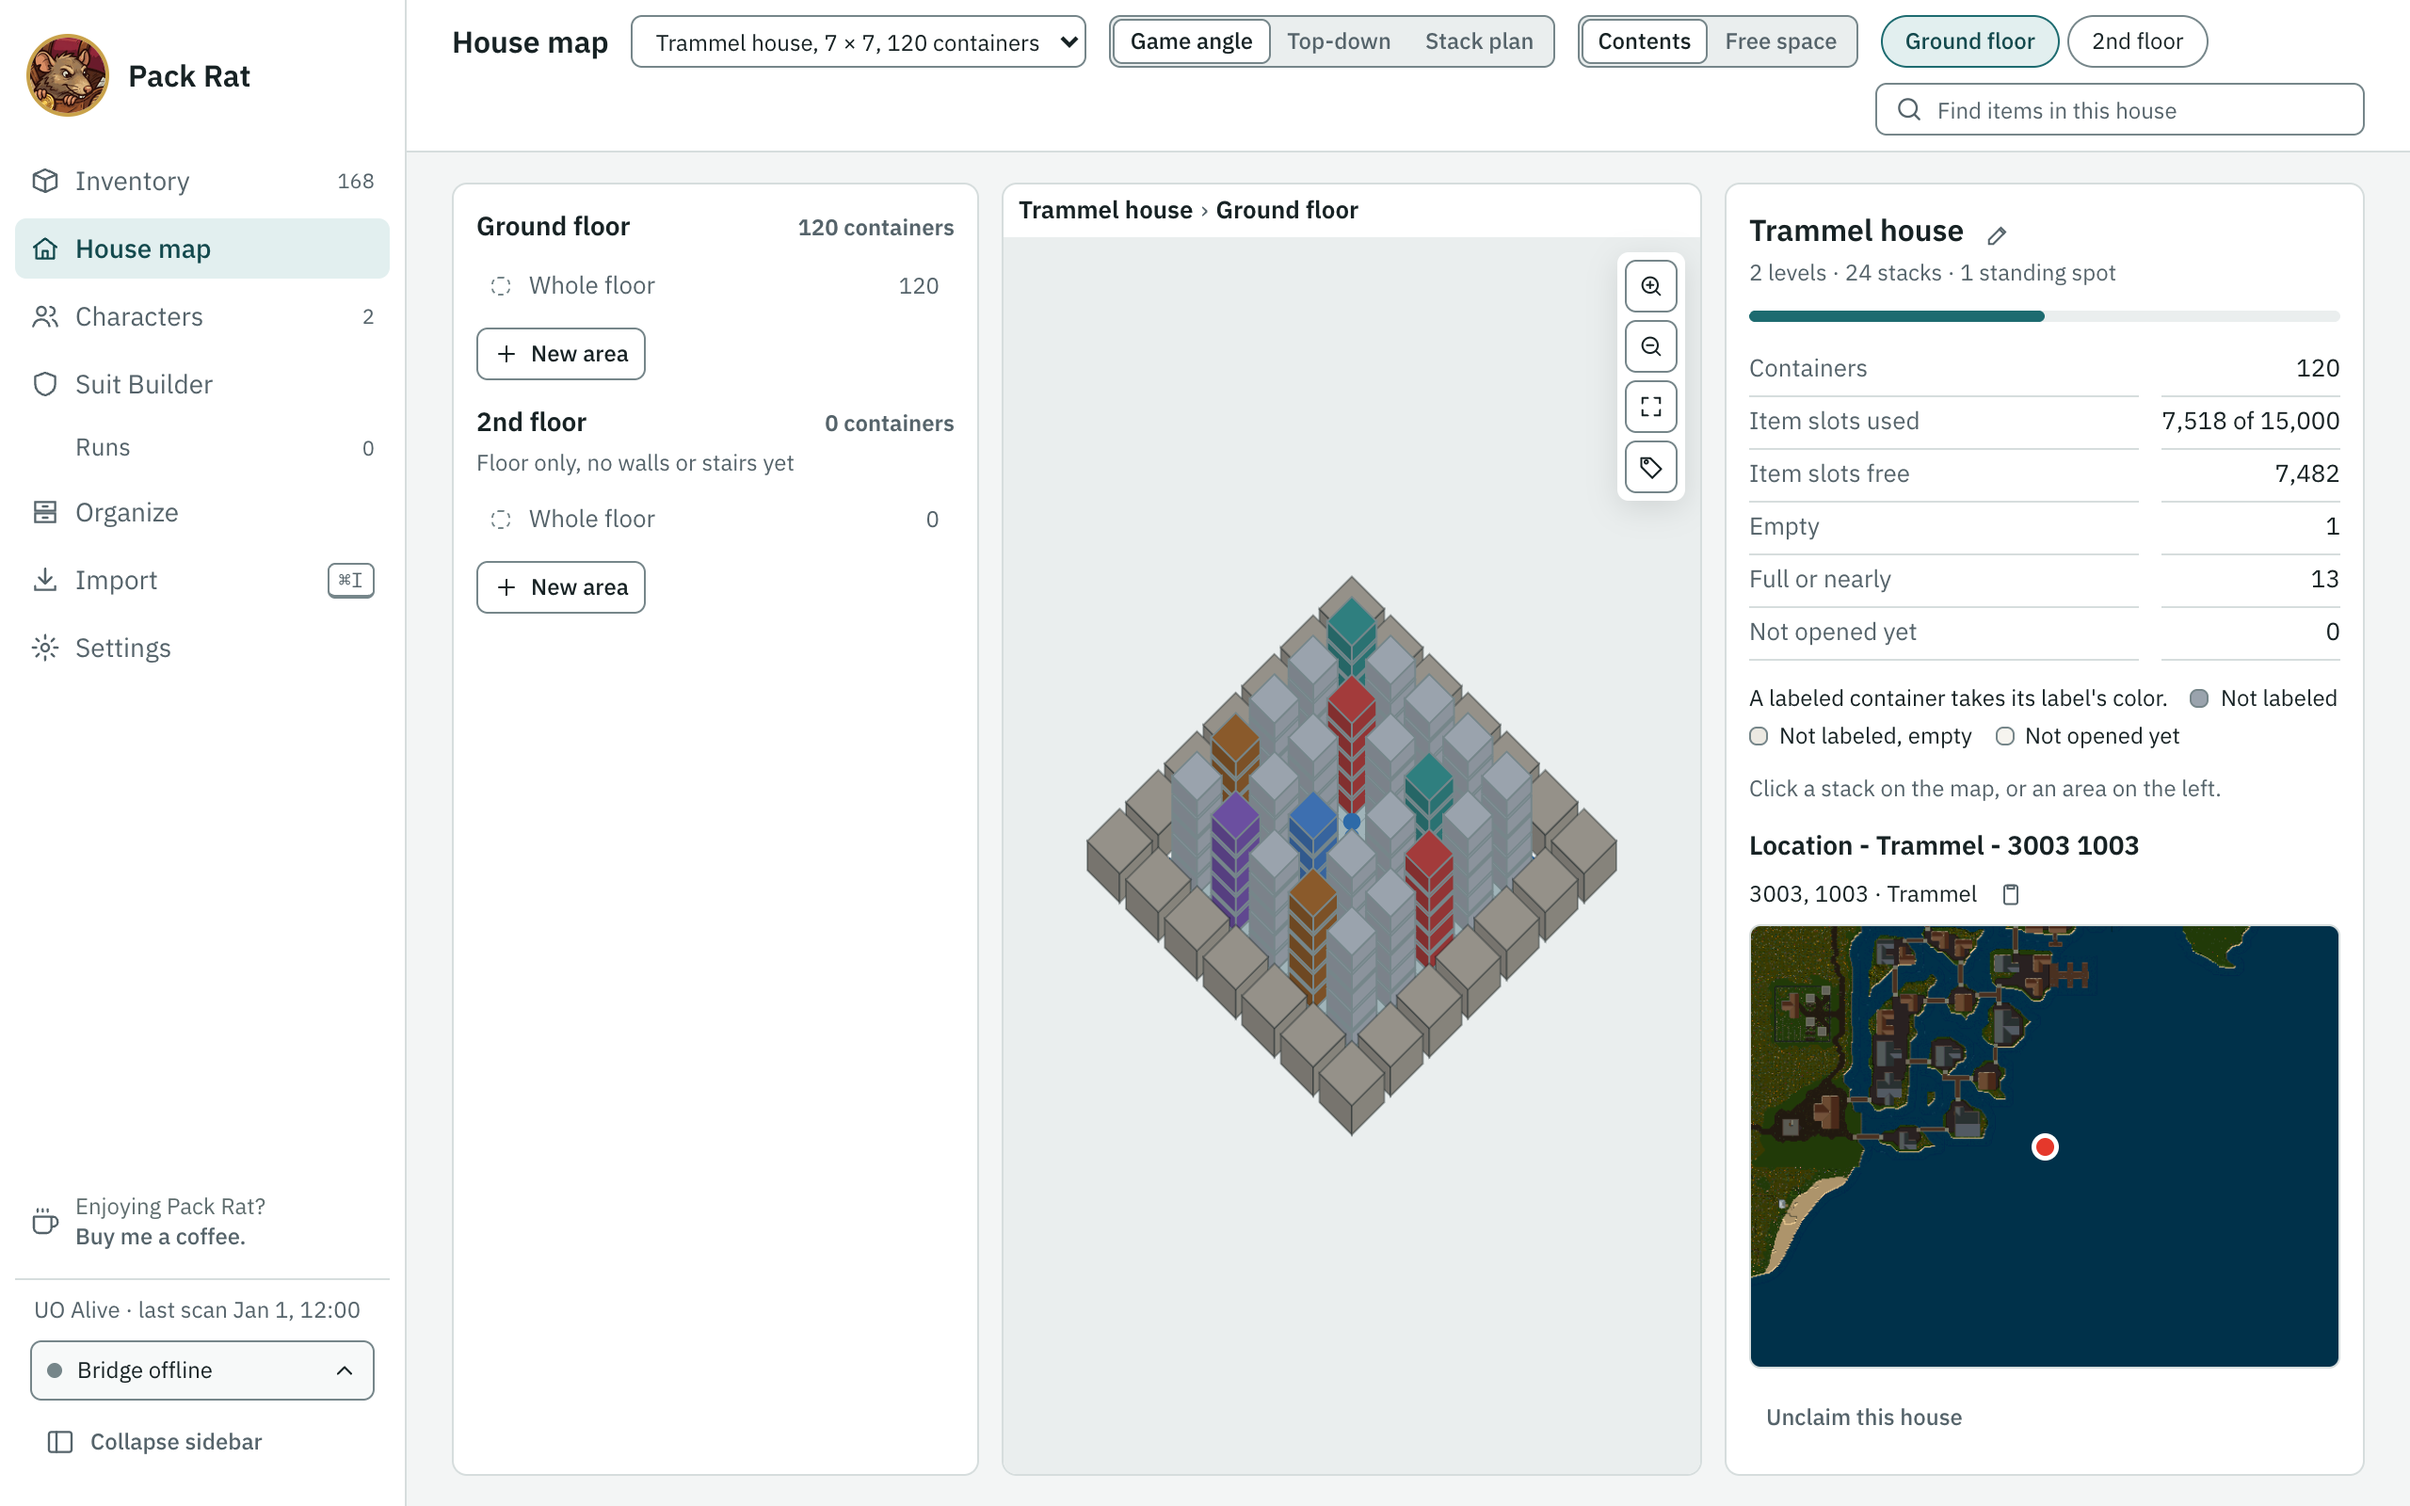
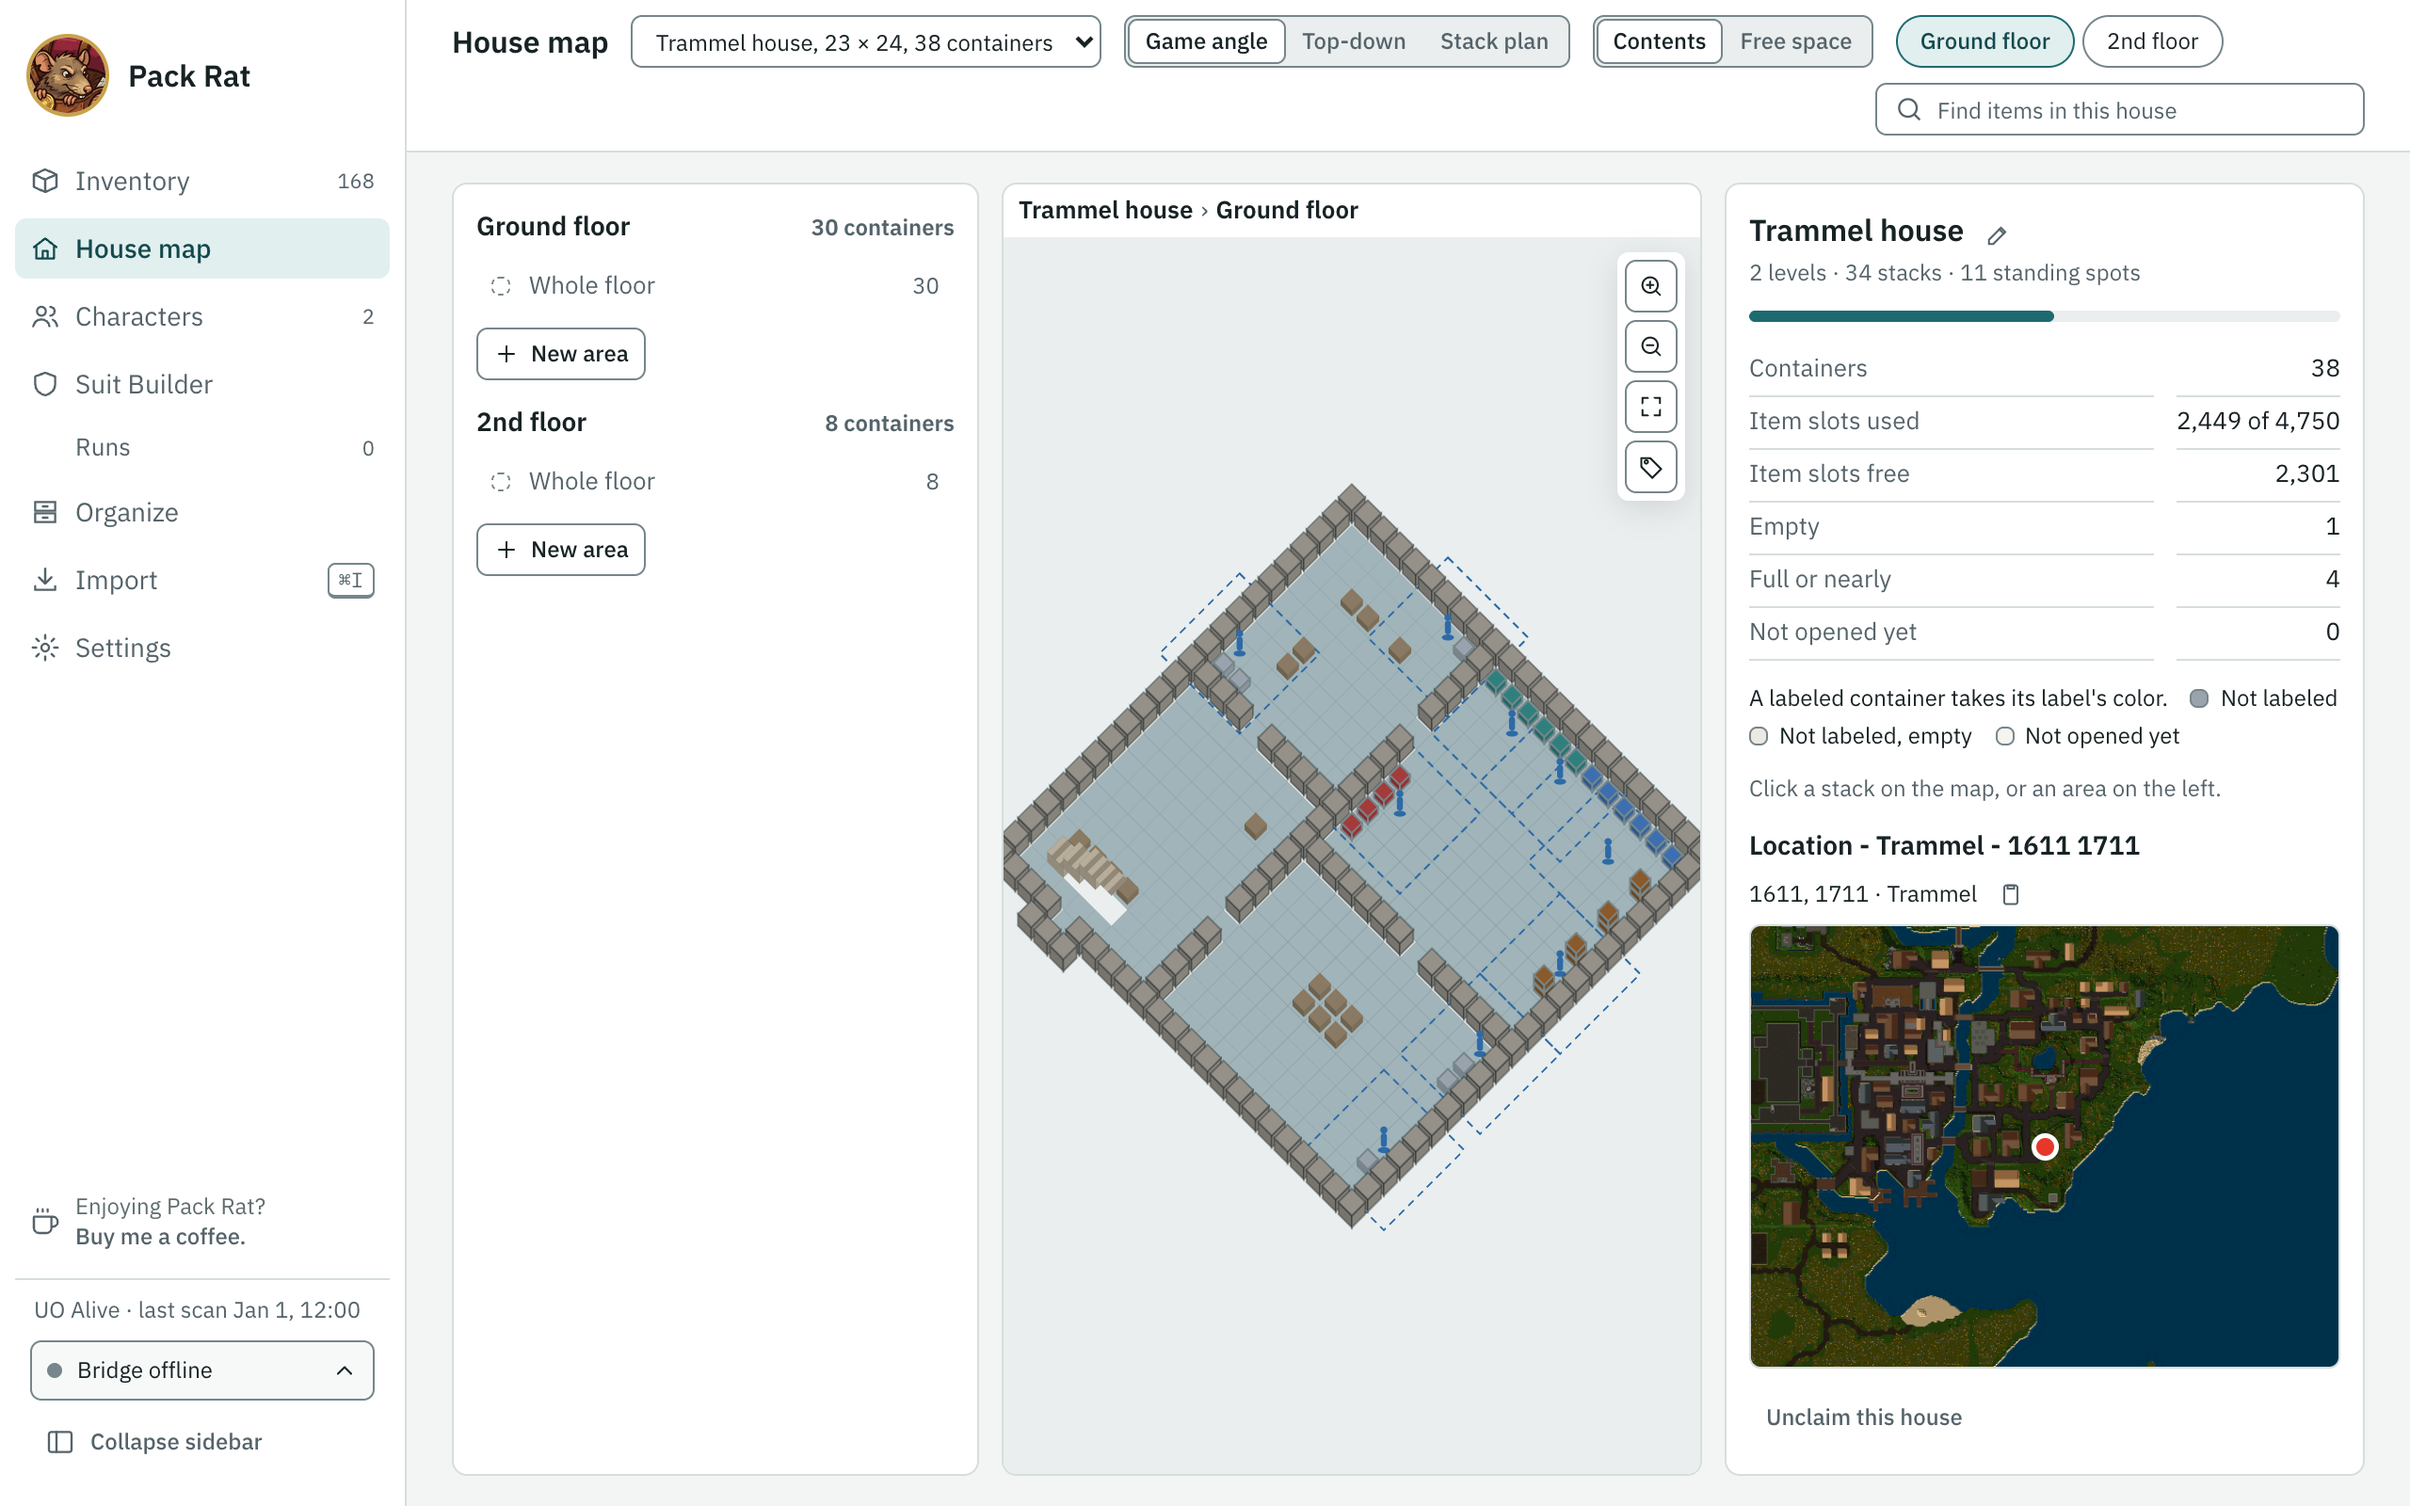
Show a roomier, furnished house in the README's House map shots (#502)
The House map shots drew the 120-chest test vault, a 7 x 7 room with chests stacked five high, which made the feature look cramped. A new showcaseHouse() in app/house-fixture.mts, used only by readme-shots, is a 24 x 24 two-storey home: a crafting room with work tables, a storage room with chests in rows and stacked pairs along its walls, an entry hall with a side table and the stairs behind a banister, a living room with a dining table, and a row of chests upstairs, 38 containers in all. The labels, partial fills and the eight things to find are kept, spread over the rooms. The vault and the other test houses are unchanged.

The still is zoomed one wheel step so the house spans the map, and the search GIF ends on the top-down view instead of the Stack plan (#531); the README's alt text says so. The house sits on land east of Britain, so the location thumbnail shows the town. characters.png is recaptured too: Dorran's scan now opened 39 containers.

diff --git a/README.md b/README.md
@@ -34,7 +34,7 @@ Pick a template such as Melee, Caster or Tank, or set your own goals, and the Su
 
 The House map draws your house from the game, with every chest stack colored by its label or by how full it is. Search it to see which chests hold what you're after.
 
-![Searching the House map for "katana" lights up the three chests that hold one, then the Stack plan lists every stack](docs/images/house-map-search.gif)
+![Searching the House map for "katana" lights up the three chests that hold one, then the top-down view shows their rooms](docs/images/house-map-search.gif)
 
 ### Organize your storage
 

diff --git a/changelog.d/502-showcase-house.md b/changelog.d/502-showcase-house.md
@@ -1,0 +1,1 @@
+- For contributors: the README's House map shots draw `showcaseHouse()` (`app/house-fixture.mts`), a furnished two-storey house with four rooms and 38 chests in rows, instead of the 120-chest test vault, zoomed so it fills the map; the search GIF ends on the top-down view.
